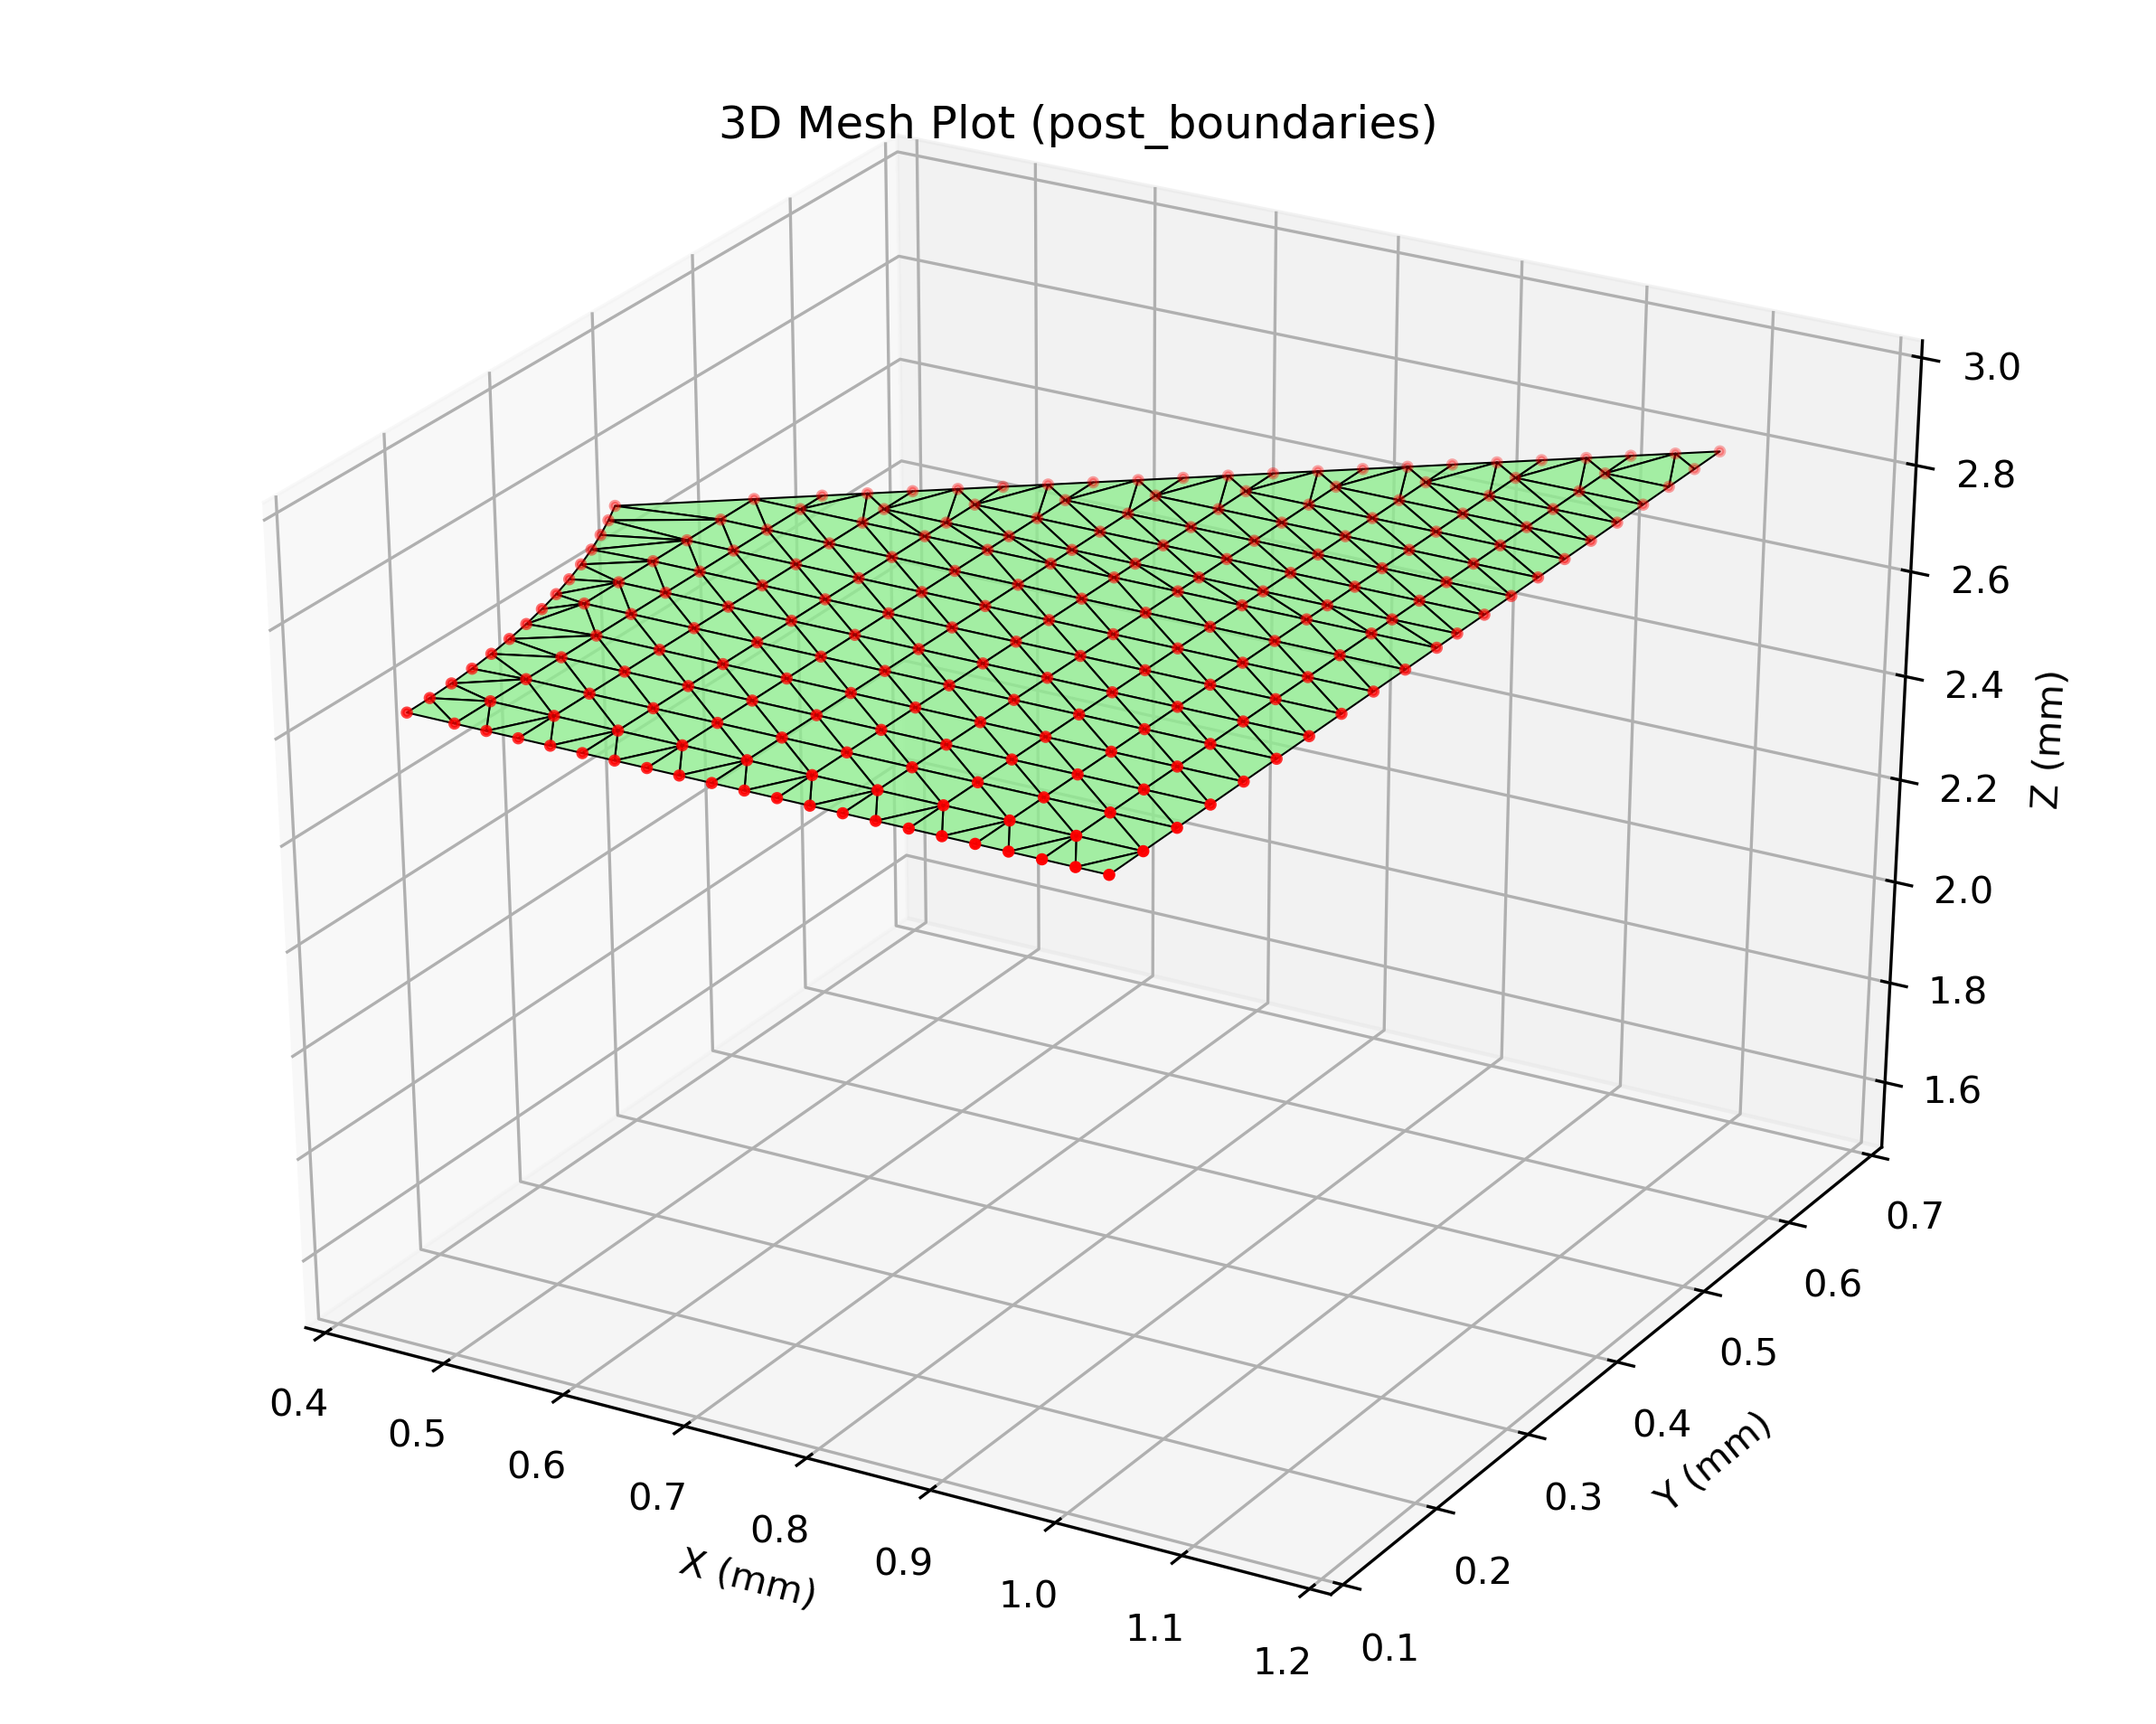
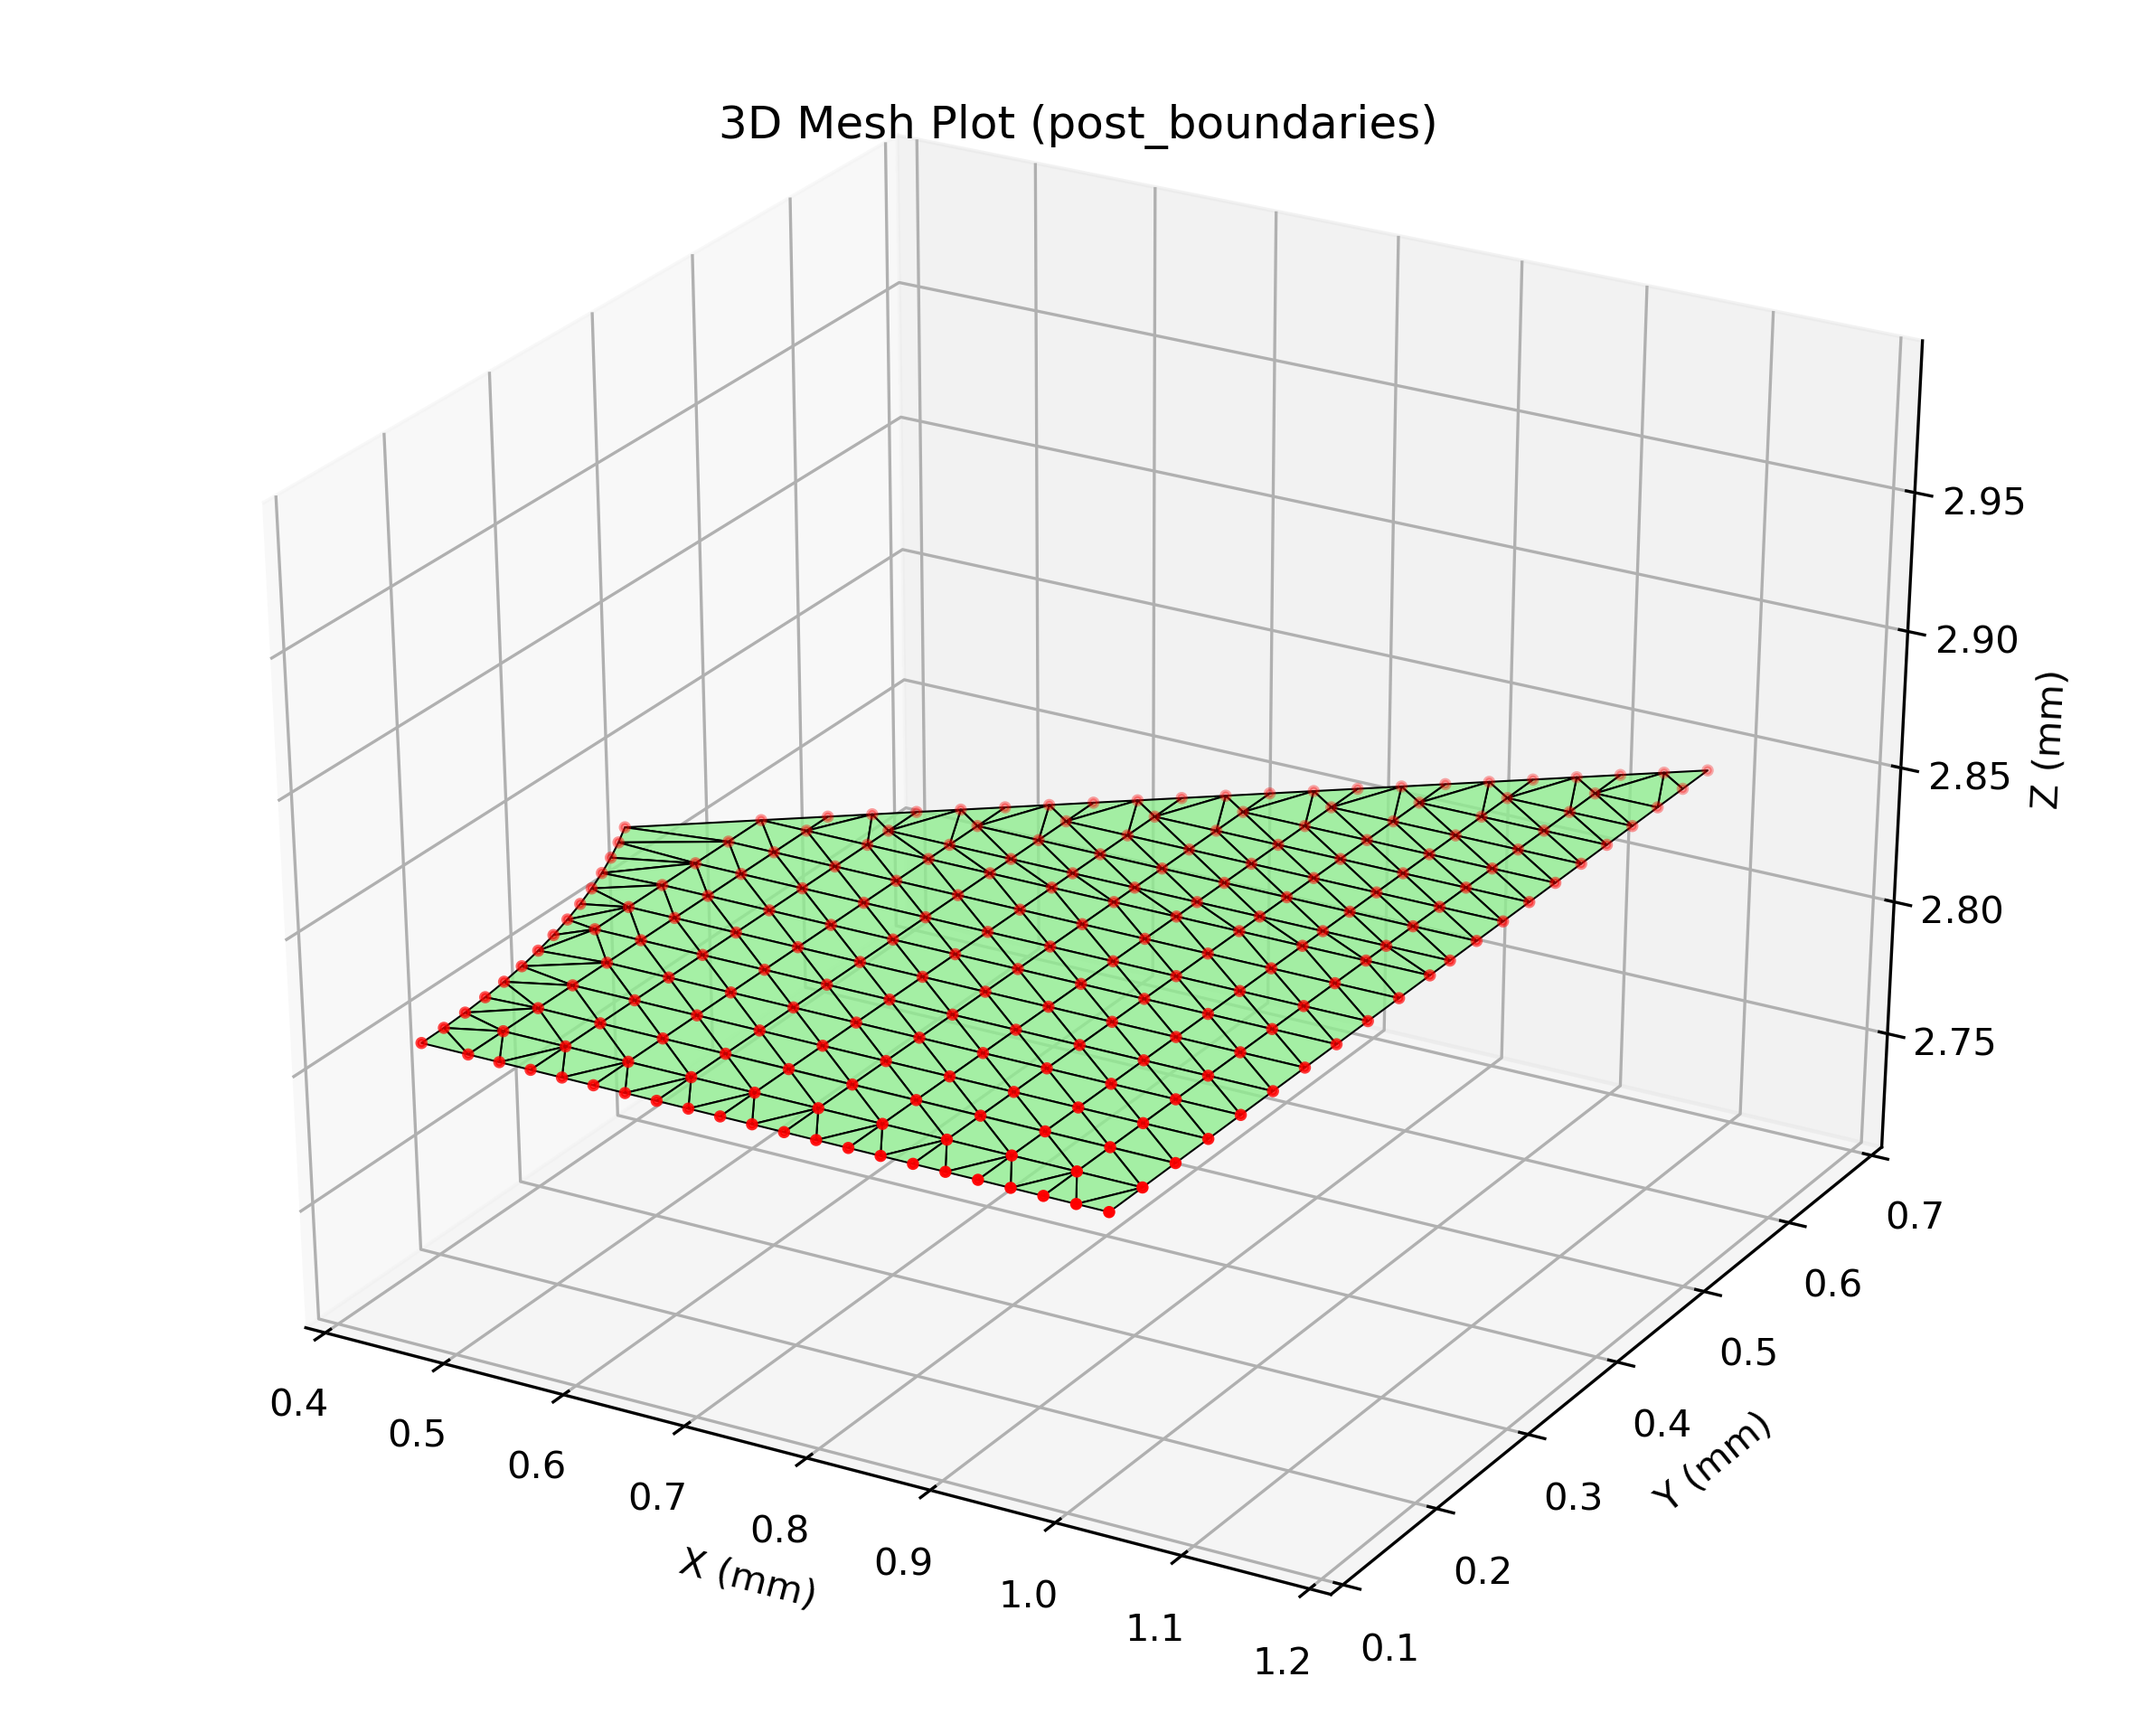
Fixed remeshing, erosion loop, saving data to files, errors in AB method, calculations, etc.

diff --git a/ErosionRedepoCode/plot_mesh.py b/ErosionRedepoCode/plot_mesh.py
@@ -37,7 +37,7 @@ def plot_3d_mesh(points_file, triangles_file, output_folder=".", file_identifier
         points = points_data # Rename for consistency with original code
         
         print(f"Points shape: {points.shape}")
-        print(f"Last 5 points:\n{points[-5:]}")
+        #print(f"Last 5 points:\n{points[-5:]}")
 
         # Load triangles from 'Triangles' file
         # No header or comments in this file, directly load integers
@@ -53,7 +53,7 @@ def plot_3d_mesh(points_file, triangles_file, output_folder=".", file_identifier
             sys.exit(1) # Exit if the Triangles format is unexpected
 
         print(f"Tri shape: {triangles.shape}")
-        print(f"Last 5 tri:\n{triangles[-5:]}")
+        #print(f"Last 5 tri:\n{triangles[-5:]}")
 
         # Convert Fortran 1-indexed to Python 0-indexed for array access
         triangles_0_indexed = triangles - 1
@@ -89,7 +89,7 @@ def plot_3d_mesh(points_file, triangles_file, output_folder=".", file_identifier
         # Set limits for 3D plot based on your previous settings
         ax.set_xlim([0.4,1.2])
         ax.set_ylim([0.1,0.7])
-        ax.set_zlim([1.5,3])
+        ax.set_zlim([2.854999999999999999,2.8550000000000001])
   
         output_filename = os.path.join(output_folder, f"plot_mesh_{file_identifier_str}.png")
         plt.savefig(output_filename, dpi=300, bbox_inches='tight')
